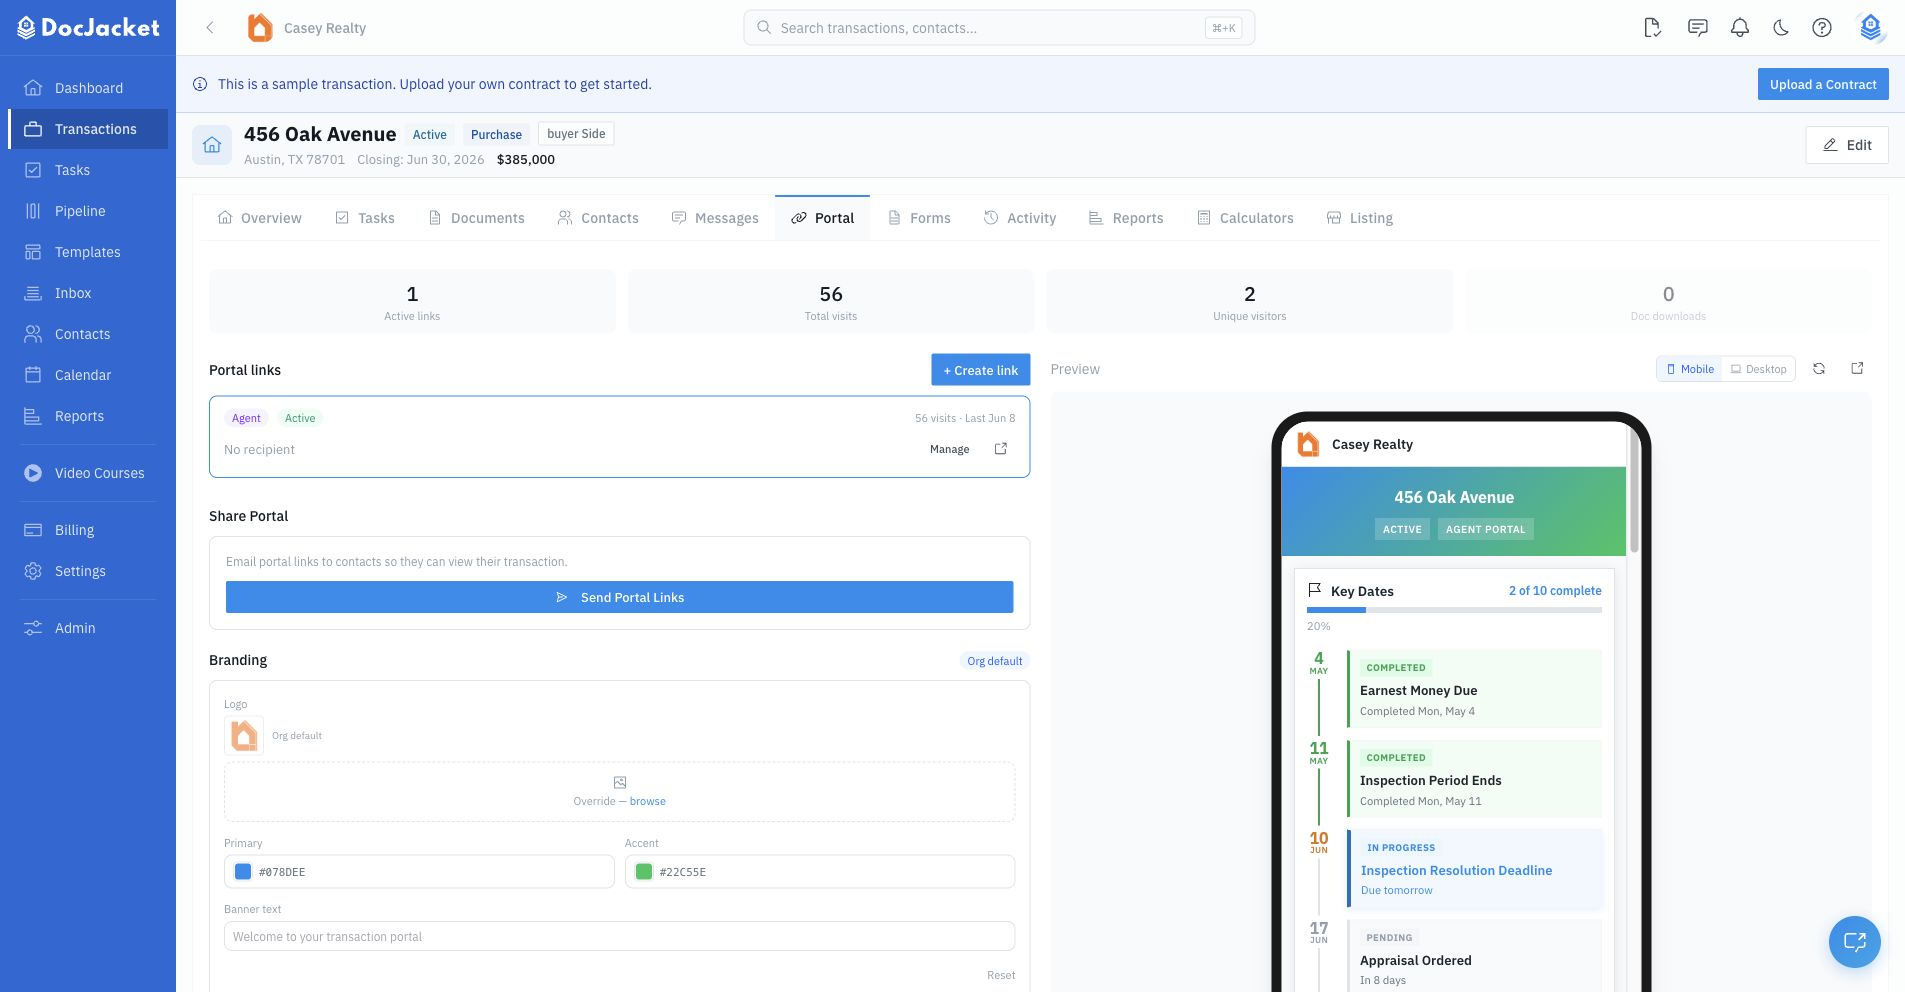
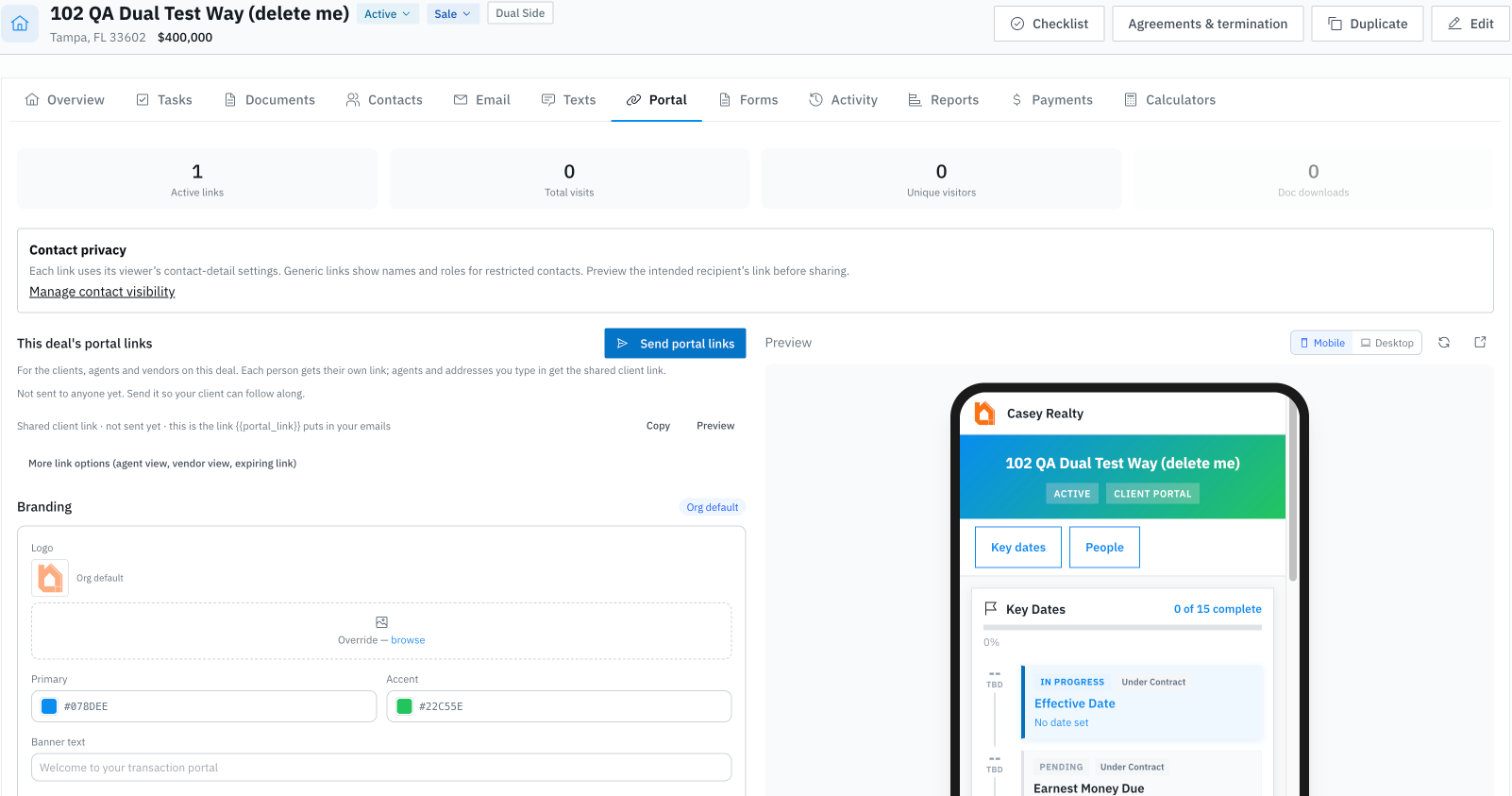
Retake the three Portal tab screenshots for today's tab
The setup page and the sharing page showed the old Portal tab (+ Create link,
a full-width Send Portal Links, a centred Create Portal Link modal defaulting
to Agent), and two of the images were the same file. All three are recaptured
in light theme on a test deal and saved as real PNGs under the same names, with
alt text that says what each picture shows.

Claude-Session: https://claude.ai/code/session_01KNEnnmz828pamYsrdCAsnj

diff --git a/static/docs/client-portal/sharing-portal-links.md b/static/docs/client-portal/sharing-portal-links.md
@@ -33,7 +33,7 @@ DocJacket generates a unique URL for that recipient. The Portal tab also shows a
 
 You can also create a portal link directly from the transaction **Contacts** tab. On a contact card, click the portal-link action. DocJacket creates the link, copies it to your clipboard, and marks that contact as having an active portal link.
 
-![Create Portal Link drawer](/img/client-portal/create-portal-link-dialog.png)
+![Create a link without sending it drawer with Portal Type set to Buyer/Seller, Contact, Expires After, and Cancel and Create Link buttons](/img/client-portal/create-portal-link-dialog.png)
 
 ## What the link opens
 
@@ -143,7 +143,7 @@ From the transaction **Portal** tab, you can see active and inactive links for t
 - **Send by email** — Open a portal-link email composer from the link detail drawer
 - **Review access details** — See last access time, last IP when available, calendar feed status, and revocation information
 
-![Portal link management with active-link stats](/img/client-portal/portal-link-management.png)
+![This deal's portal links with Send portal links, the shared client link with Copy and Preview, and More link options](/img/client-portal/portal-link-management.png)
 
 ## Tips
 

diff --git a/static/docs/client-portal/setting-up-the-portal.md b/static/docs/client-portal/setting-up-the-portal.md
@@ -21,7 +21,7 @@ Open a transaction and go to **Portal**. The page is split into a management are
 - **Recent activity** — Review recent visitor activity when tracking data is available.
 - **Preview** — Select a link and view the portal in mobile or desktop mode before sending it.
 
-![Transaction Portal tab with link management, branding, and live preview](/img/client-portal/transaction-portal-tab.png)
+![Transaction Portal tab with active-link and visit stats, the Contact privacy card, this deal's portal links with Send portal links, branding, and the live preview](/img/client-portal/transaction-portal-tab.png)
 
 ## Branding
 
